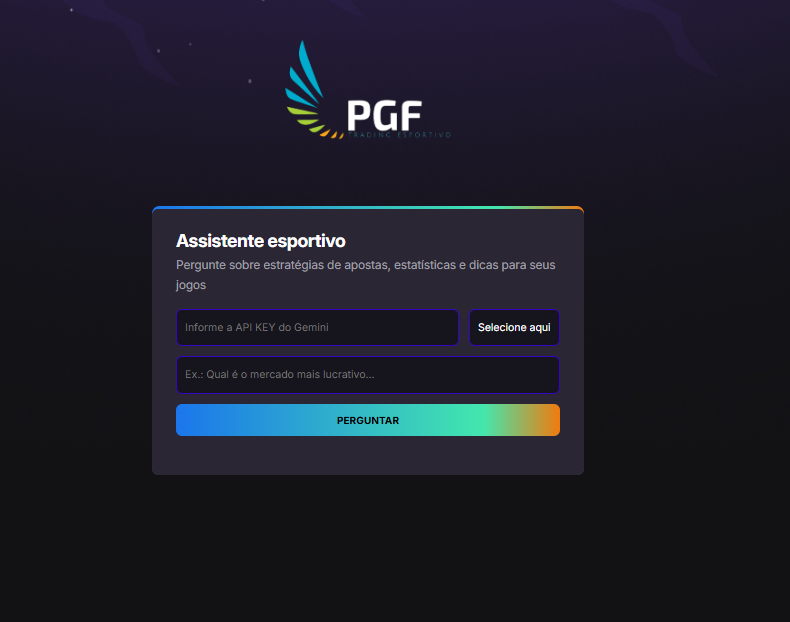
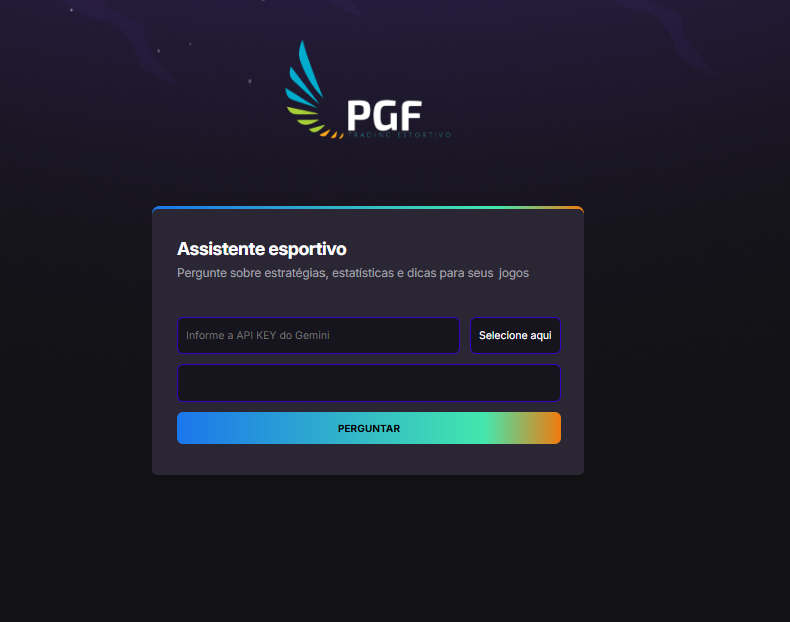
Update about project description

Changed region(s): [[0.2127, 0.3666, 0.7291, 0.7331]]

diff --git a/script.js b/script.js
@@ -14,10 +14,10 @@ const markdownToHTML = (text) => {
 const perguntarAI = async (question, game, apiKey) => {
   const model = "gemini-2.5-flash";
   const geminiURL = `https://generativelanguage.googleapis.com/v1beta/models/${model}:generateContent?key=${apiKey}`;
-  const pergunta = `Você é um especialista em apostas esportivas com foco em ${game}
+  const pergunta = `Você é um especialista em eventos esportivos com foco em ${game}
 
 ## Objetivo:
-Responder perguntas sobre estratégias de apostas, probabilidades, estatísticas, campeonatos relevantes e dicas com alta assertividade.
+Responder perguntas sobre estratégias de jogos, probabilidades, estatísticas, campeonatos relevantes e dicas com alta assertividade.
 
 ## Regras:
 - Se não souber a resposta, diga: **"Não sei"**. Não invente.

diff --git a/index.html b/index.html
@@ -21,7 +21,7 @@
         <div>
           <h2 class="title">Assistente esportivo</h2>
           <p>
-            Pergunte sobre estratégias de apostas, estatísticas e dicas para
+            Pergunte sobre estratégias, estatísticas e dicas para
             seus jogos
           </p>
           <form id="form">
@@ -40,7 +40,7 @@
             <input
               id="questionInput"
               type="text"
-              placeholder="Ex.: Qual é o mercado mais lucrativo..."
+              placeholder="Ex.: Faça a sua pergunta..."
               required
             />
             <button id="askButton">Perguntar</button>

diff --git a/README.md b/README.md
@@ -86,9 +86,9 @@ Aviso: "Sua API Key é processada apenas localmente no seu navegador e não é a
 
 - “Quem foi o artilheiro da Copa de 2002”
 
-- “Vale a pena apostar no over 2.5 nos jogos da Premier League?”
+- “Nos jogos da Premier League normalmente saem mais de 2 gols?”
 
-- "Qual mercado é mais seguro para apostar em jogos da Série B do Brasileiro?"
+- "Qual time tem mais chance de vencer o campeonato Série B do Brasileiro?"
 
 - "Quais times têm melhor aproveitamento no 1º quarto?"
 - “Qual estratégia funciona melhor em torneios de poker Sit & Go?”
@@ -199,9 +199,9 @@ Web application that uses **Gemini API (LLM)** to answer sports-related question
 
 - “Who was the top scorer of the 2002 World Cup?”
 
-- “Is it worth betting on over 2.5 goals in Premier League matches?”
+- "In Premier League matches, do more than 2 goals usually happen?"
 
-- “Which market is safer for betting in Série B games?”
+- "Which team is most likely to win the Brazilian Serie B championship?"
 
 - “Which teams perform better in the 1st quarter?”
 
